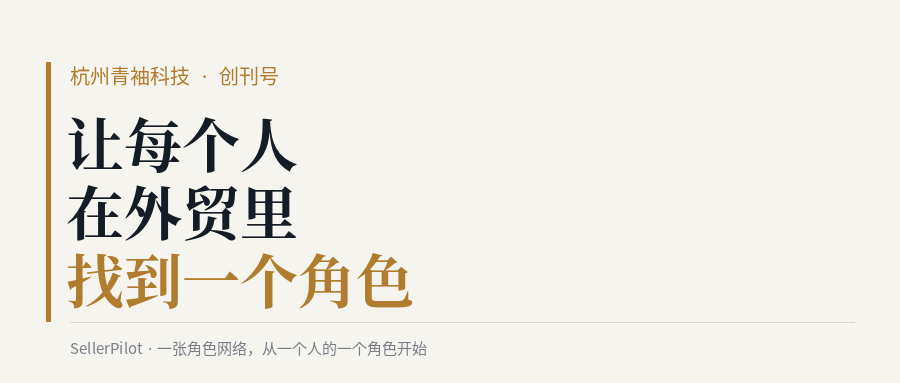
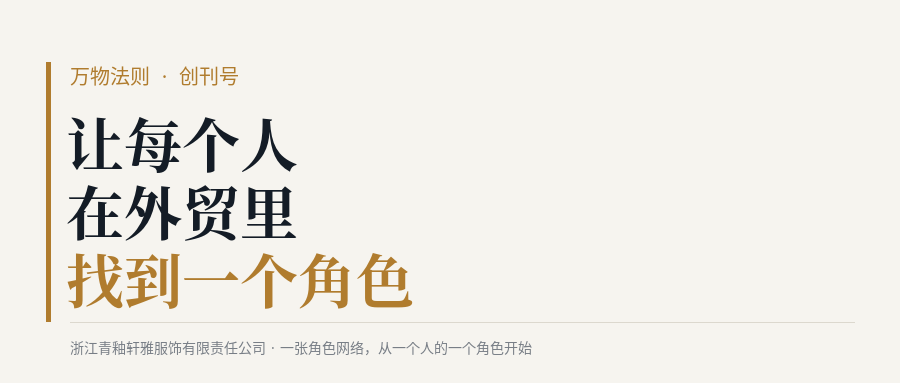
Rebrand to Wanwu Law (万物法则): separate personal site and company, legal entity Qingyou Xuan Ya Apparel; rewrite founding post with market-segmentation & paying-customer methodology

Changed region(s): [[0.0622, 0.8903, 0.5911, 0.9478], [0.0622, 0.1723, 0.3111, 0.2298]]

diff --git a/post/first/index.html b/post/first/index.html
@@ -1,6 +1,6 @@
 <!DOCTYPE html><html lang="zh-CN"><head><meta charset="utf-8">
 <meta name="viewport" content="width=device-width,initial-scale=1">
-<title>我们注册公司了：让每个人都能在外贸里，找到一个角色 · SellerPilot</title>
+<title>万物法则：让每个人都能在外贸里，找到一个角色 · SellerPilot</title>
 <link rel="canonical" href="https://sinyu1998-eng.github.io/post/first/">
 <link rel="stylesheet" href="/assets/site.css">
 <style>
@@ -27,9 +27,9 @@
 </div></nav>
 <div class="post-wrap"><article class="article">
 <img class="cover" src="/post/first/cover.png" alt="封面">
-<div class="meta">杭州青袖科技 · 创刊号 · 2026.11.28</div>
-<div class="h1p">我们注册公司了：让每个人都能在外贸里，找到一个角色</div>
-<blockquote style="margin:20px 0;padding:14px 16px;background:#faf6ee;border-left:3px solid #d9b878;color:#5a5a5a;font-size:15px;line-height:1.9;">这是「杭州青袖科技」的第一篇。不谈融资，不喊口号，只讲清楚我们是谁、要做什么，以及为什么这件事和你有关。</blockquote><p style="margin:16px 0;font-size:16px;line-height:2;color:#333;letter-spacing:.2px;">这周，我们把公司注册下来了。</p><p style="margin:16px 0;font-size:16px;line-height:2;color:#333;letter-spacing:.2px;"><strong style="color:#1a1a1a;">杭州青袖科技有限公司</strong>，2026 年 11 月 24 日成立，注册在杭州余杭。经营范围里写着软件开发、人工智能应用、互联网销售，还有服装服饰、化妆品、日用百货的批发零售——这几行字，其实是我们接下来要做的事的缩影：<strong style="color:#1a1a1a;">用一套系统，把中国货和想买中国货的人，重新连起来。</strong></p><h2 style="font-size:19px;font-weight:700;color:#1a1a1a;margin:34px 0 14px;padding-left:12px;border-left:4px solid #b07c2e;line-height:1.5;">起因：义乌给我的启发</h2><p style="margin:16px 0;font-size:16px;line-height:2;color:#333;letter-spacing:.2px;">我在义乌待过一段时间，见过做收纳用品的工厂老板，货堆在仓库，老客户下单越来越碎，新客户在哪根本摸不着。</p><p style="margin:16px 0;font-size:16px;line-height:2;color:#333;letter-spacing:.2px;">也接触过几百家工厂和贸易公司。跨境出海卡住的地方，翻来覆去就是那几件事：库存是死钱、跟单靠人脑、找不到终端买家。</p><p style="margin:16px 0;font-size:16px;line-height:2;color:#333;letter-spacing:.2px;">但义乌真正厉害的，不是小商品本身，而是<strong style="color:#1a1a1a;">它让每一个人都能在这门生意里承担一个角色、互相联系</strong>。有人做货，有人跑单，有人拉客，有人报关，有人送货——谁都不用一个人干完全部，谁都能凭自己那一段赚到钱。</p><p style="margin:16px 0;font-size:16px;line-height:2;color:#333;letter-spacing:.2px;">这件事，今天还主要靠微信群、人情和运气在维系。我们想把它搬进一个系统。</p><h2 style="font-size:19px;font-weight:700;color:#1a1a1a;margin:34px 0 14px;padding-left:12px;border-left:4px solid #b07c2e;line-height:1.5;">我们要做的事：把这张角色网络，做成软件</h2><p style="margin:16px 0;font-size:16px;line-height:2;color:#333;letter-spacing:.2px;">SellerPilot 不是一个只给公司用的工具。它是一张<strong style="color:#1a1a1a;">角色网络</strong>：</p><ul style="margin:12px 0;padding-left:22px;"><li style="margin:8px 0;line-height:1.9;color:#333;">你是<strong style="color:#1a1a1a;">工厂</strong>，系统把你的货挂到海外买家面前，来询盘先算清 CIF 保本价，再谈报价；</li><li style="margin:8px 0;line-height:1.9;color:#333;">你是<strong style="color:#1a1a1a;">外贸员</strong>，九段状态机替你盯节点，六项成本账本替你记明细，异常才提醒你介入；</li><li style="margin:8px 0;line-height:1.9;color:#333;">你是<strong style="color:#1a1a1a;">海外买家</strong>，在一个官网上看中国货、看中国行，注册一个账号就把你和工厂、货代接成一条工作流；</li><li style="margin:8px 0;line-height:1.9;color:#333;">你是<strong style="color:#1a1a1a;">导游 / 地接</strong>，带老外来中国看市场——旅游是获客，注册是入网，你带来的每个人都是网络里的新角色；</li><li style="margin:8px 0;line-height:1.9;color:#333;">你是<strong style="color:#1a1a1a;">货代、海外仓、主播、验货员、商会、开发者</strong>……这张网里都有你能站的位置。</li></ul><p style="margin:16px 0;font-size:16px;line-height:2;color:#333;letter-spacing:.2px;">我们做了一个页面，把这套角色讲清楚了：<strong style="color:#1a1a1a;">每个人都能在这里找到自己的位置</strong>。你可以按身份筛，点开看每个角色做什么、系统怎么帮你、收益从哪来、怎么加入。</p><blockquote style="margin:20px 0;padding:14px 16px;background:#faf6ee;border-left:3px solid #d9b878;color:#5a5a5a;font-size:15px;line-height:1.9;">一句话：义乌靠人和人的联系把生意做起来，我们想让这套联系，被系统记住、被系统放大。</blockquote><h2 style="font-size:19px;font-weight:700;color:#1a1a1a;margin:34px 0 14px;padding-left:12px;border-left:4px solid #b07c2e;line-height:1.5;">说实话：我们现在还小</h2><p style="margin:16px 0;font-size:16px;line-height:2;color:#333;letter-spacing:.2px;">我们人很少。所以必须讲清楚哪些是真的、哪些还在做：</p><p style="margin:16px 0;font-size:16px;line-height:2;color:#333;letter-spacing:.2px;"><strong style="color:#1a1a1a;">已经能跑的</strong>：SellerPilot OS 的九段外贸状态机、CIF 保本报价、六项成本账本、异常预警——一套可运行的软件，把角色网络里的重复活自动化。代码在 GitHub 上能看到。</p><p style="margin:16px 0;font-size:16px;line-height:2;color:#333;letter-spacing:.2px;"><strong style="color:#1a1a1a;">已有的入口</strong>：对外官网 margueritesbury.com，带老外做 sourcing，也了解来中国旅游。</p><p style="margin:16px 0;font-size:16px;line-height:2;color:#333;letter-spacing:.2px;"><strong style="color:#1a1a1a;">正在整合的</strong>：Singles Way（老外来中国旅游、注册当角色）、AI 视觉识别（参考 DeepLab / YOLO 做看图认货、验货）、直播 / 货代 / 海外仓 / 商会 / 政府关系这些资源方——这些是我们<strong style="color:#1a1a1a;">要整合好的方向</strong>，不是已经上线的承诺。</p><p style="margin:16px 0;font-size:16px;line-height:2;color:#333;letter-spacing:.2px;">我们不打算靠堆人把这件事做起来。靠的是：状态机干重复活，先把钱算清，异常才需要人，资源用接的不用买的。</p><h2 style="font-size:19px;font-weight:700;color:#1a1a1a;margin:34px 0 14px;padding-left:12px;border-left:4px solid #b07c2e;line-height:1.5;">为什么是我们</h2><p style="margin:16px 0;font-size:16px;line-height:2;color:#333;letter-spacing:.2px;">这不是凭空想出来的模式。</p><p style="margin:16px 0;font-size:16px;line-height:2;color:#333;letter-spacing:.2px;">我从国内电商做到跨境电商，带团队管过 90+ 店铺，上一年度自有体系约 1 亿元 GMV；从义乌的田野，到浙江大学的工科训练，再到德州农工、亚利桑那州立大学，一路把一线踩过的坑，做成了这套系统里的每一步。</p><p style="margin:16px 0;font-size:16px;line-height:2;color:#333;letter-spacing:.2px;">系统里的每个节点，都先在真实订单里跑过，才写进代码。</p><h2 style="font-size:19px;font-weight:700;color:#1a1a1a;margin:34px 0 14px;padding-left:12px;border-left:4px solid #b07c2e;line-height:1.5;">从今天起，这张网开始找人</h2><p style="margin:16px 0;font-size:16px;line-height:2;color:#333;letter-spacing:.2px;">如果你——</p><ul style="margin:12px 0;padding-left:22px;"><li style="margin:8px 0;line-height:1.9;color:#333;">有工厂、有货源，想直接接到海外订单；</li><li style="margin:8px 0;line-height:1.9;color:#333;">懂外语、会直播、能带团、做货代、开海外仓；</li><li style="margin:8px 0;line-height:1.9;color:#333;">做支付、做软件、做商会、做园区，想把这些能力接进一张真实的交易网络；</li><li style="margin:8px 0;line-height:1.9;color:#333;">或者只是想来中国看看货、看看市场——</li></ul><p style="margin:16px 0;font-size:16px;line-height:2;color:#333;letter-spacing:.2px;"><strong style="color:#1a1a1a;">你都能在这张网里找到一个角色。</strong></p><p style="margin:16px 0;font-size:16px;line-height:2;color:#333;letter-spacing:.2px;">点开角色页，选一个你能承担的，看看系统怎么帮你。也可以直接把你的角色、城市和资源发给我们，我们帮你定位你在网络里的位置。</p><p style="margin:16px 0;font-size:16px;line-height:2;color:#333;letter-spacing:.2px;">一张网，从一个人的一个角色开始。</p><p style="margin:16px 0;font-size:16px;line-height:2;color:#333;letter-spacing:.2px;">—— 黄倩如 · 杭州青袖科技</p><p style="margin:16px 0;font-size:16px;line-height:2;color:#333;letter-spacing:.2px;">2026 年 11 月 28 日</p>
+<div class="meta">万物法则 · 创刊号 · 2026.11.28</div>
+<div class="h1p">万物法则：让每个人都能在外贸里，找到一个角色</div>
+<blockquote style="margin:20px 0;padding:14px 16px;background:#faf6ee;border-left:3px solid #d9b878;color:#5a5a5a;font-size:15px;line-height:1.9;">这是「万物法则」的第一篇。不谈融资，不喊口号，只讲清楚我们是谁、要做什么，以及为什么这件事和你有关。</blockquote><p style="margin:16px 0;font-size:16px;line-height:2;color:#333;letter-spacing:.2px;">先说清楚两件事，免得你误会。</p><p style="margin:16px 0;font-size:16px;line-height:2;color:#333;letter-spacing:.2px;"><strong style="color:#1a1a1a;">第一，公司叫「万物法则」。</strong> 它的法律主体是浙江青釉轩雅服饰有限责任公司——2025 年 2 月 20 日在义乌成立，注册资本壹仟万元。做服饰批零起家，如今把方向定在一件事上：用一套系统，把中国货和想买中国货的人，重新连起来。</p><p style="margin:16px 0;font-size:16px;line-height:2;color:#333;letter-spacing:.2px;"><strong style="color:#1a1a1a;">第二，公司和个人是两件事，但连着。</strong> 我是黄倩如，你也可以叫我小黄。这个公众号发公司的事；我个人的经历、研究和创作，放在另一个地方。两者会因为同一个人而相互参照，但账要分开算、事要分开讲。这是「万物法则」的第一条规矩：<strong style="color:#1a1a1a;">角色要清楚，边界要清楚。</strong></p><h2 style="font-size:19px;font-weight:700;color:#1a1a1a;margin:34px 0 14px;padding-left:12px;border-left:4px solid #b07c2e;line-height:1.5;">起因：先找市场，再谈产品</h2><p style="margin:16px 0;font-size:16px;line-height:2;color:#333;letter-spacing:.2px;">我最认可的一套创业方法，第一步不是做产品，是<strong style="color:#1a1a1a;">市场细分</strong>——把目标缩小到最有前景的 6~12 个市场，针对每一个去做实地调查，和客户当面聊。</p><p style="margin:16px 0;font-size:16px;line-height:2;color:#333;letter-spacing:.2px;">我在义乌做这件事。见过做收纳用品的工厂老板，货堆在仓库，老客户下单越来越碎，新客户在哪根本摸不着；也接触过几百家工厂和贸易公司，跨境出海卡住的地方翻来覆去就是那几件事：库存是死钱、跟单靠人脑、找不到终端买家。</p><p style="margin:16px 0;font-size:16px;line-height:2;color:#333;letter-spacing:.2px;">但义乌真正厉害的，不是小商品本身，而是<strong style="color:#1a1a1a;">它让每一个人都能在这门生意里承担一个角色、互相联系</strong>。有人做货，有人跑单，有人拉客，有人报关，有人送货——谁都不用一个人干完全部，谁都能凭自己那一段赚到钱。</p><p style="margin:16px 0;font-size:16px;line-height:2;color:#333;letter-spacing:.2px;">这就是我选中的市场：<strong style="color:#1a1a1a;">不是卖货，是把"人—货—客—钱"的连接，做成一张能自动运转的网。</strong></p><h2 style="font-size:19px;font-weight:700;color:#1a1a1a;margin:34px 0 14px;padding-left:12px;border-left:4px solid #b07c2e;line-height:1.5;">唯一重要的检验标准：有没有人愿意付钱</h2><p style="margin:16px 0;font-size:16px;line-height:2;color:#333;letter-spacing:.2px;">创业方法里有一句我抄在本子上的话：</p><blockquote style="margin:20px 0;padding:14px 16px;background:#faf6ee;border-left:3px solid #d9b878;color:#5a5a5a;font-size:15px;line-height:1.9;">企业成功的唯一充分必要条件，是<strong style="color:#1a1a1a;">付费客户</strong>。不是产品、技术、愿景、团队，也不是资金和投资者——那些都重要，但都不是答案。业务直到有人愿意掏钱买，才算真的成立。</blockquote><p style="margin:16px 0;font-size:16px;line-height:2;color:#333;letter-spacing:.2px;">这句话很残酷，也很清醒。它让我们把力气用在刀刃上：</p><ul style="margin:12px 0;padding-left:22px;"><li style="margin:8px 0;line-height:1.9;color:#333;">不做"看起来很美"的功能，先问<strong style="color:#1a1a1a;">谁会为它付钱</strong>；</li><li style="margin:8px 0;line-height:1.9;color:#333;">不堆人、不堆概念，先跑通<strong style="color:#1a1a1a;">一笔真实订单</strong>；</li><li style="margin:8px 0;line-height:1.9;color:#333;">每个人在这张网里的角色，最终都要落到<strong style="color:#1a1a1a;">他能不能分到钱</strong>。</li></ul><p style="margin:16px 0;font-size:16px;line-height:2;color:#333;letter-spacing:.2px;">所以「万物法则」做的不是软件展示品。是一套能让角色各司其职、让订单闭环、让钱算得清的系统。</p><h2 style="font-size:19px;font-weight:700;color:#1a1a1a;margin:34px 0 14px;padding-left:12px;border-left:4px solid #b07c2e;line-height:1.5;">我们做的事：把这张角色网络，做成软件</h2><p style="margin:16px 0;font-size:16px;line-height:2;color:#333;letter-spacing:.2px;">SellerPilot 不是一个只给公司用的工具。它是一张<strong style="color:#1a1a1a;">角色网络</strong>：</p><ul style="margin:12px 0;padding-left:22px;"><li style="margin:8px 0;line-height:1.9;color:#333;">你是<strong style="color:#1a1a1a;">工厂</strong>，系统把你的货挂到海外买家面前，来询盘先算清 CIF 保本价，再谈报价；</li><li style="margin:8px 0;line-height:1.9;color:#333;">你是<strong style="color:#1a1a1a;">外贸员</strong>，九段状态机替你盯节点，六项成本账本替你记明细，异常才提醒你介入；</li><li style="margin:8px 0;line-height:1.9;color:#333;">你是<strong style="color:#1a1a1a;">海外买家</strong>，在一个官网上看中国货、看中国行，注册一个账号就把你和工厂、货代接成一条工作流；</li><li style="margin:8px 0;line-height:1.9;color:#333;">你是<strong style="color:#1a1a1a;">导游 / 地接</strong>，带老外来中国看市场——旅游是获客，注册是入网，你带来的每个人都是网络里的新角色；</li><li style="margin:8px 0;line-height:1.9;color:#333;">你是<strong style="color:#1a1a1a;">货代、海外仓、主播、验货员、商会、开发者</strong>……这张网里都有你能站的位置。</li></ul><p style="margin:16px 0;font-size:16px;line-height:2;color:#333;letter-spacing:.2px;">我们做了一个页面，把这套角色讲清楚了：<strong style="color:#1a1a1a;">每个人都能在这里找到自己的位置</strong>。你可以按身份筛，点开看每个角色做什么、系统怎么帮你、收益从哪来、怎么加入。</p><blockquote style="margin:20px 0;padding:14px 16px;background:#faf6ee;border-left:3px solid #d9b878;color:#5a5a5a;font-size:15px;line-height:1.9;">用客户的角度想问题：工厂要的是不压价、有订单；买家要的是货真、能验、能到；每个角色要的，都是"我这一段，能分到多少"。系统围着这些转，而不是围着我们的想象转。</blockquote><h2 style="font-size:19px;font-weight:700;color:#1a1a1a;margin:34px 0 14px;padding-left:12px;border-left:4px solid #b07c2e;line-height:1.5;">说实话：我们现在还小</h2><p style="margin:16px 0;font-size:16px;line-height:2;color:#333;letter-spacing:.2px;">我们人很少。所以必须讲清楚哪些是真的、哪些还在做：</p><p style="margin:16px 0;font-size:16px;line-height:2;color:#333;letter-spacing:.2px;"><strong style="color:#1a1a1a;">已经能跑的</strong>：SellerPilot OS 的九段外贸状态机、CIF 保本报价、六项成本账本、异常预警——一套可运行的软件，把角色网络里的重复活自动化。代码在 GitHub 上能看到。</p><p style="margin:16px 0;font-size:16px;line-height:2;color:#333;letter-spacing:.2px;"><strong style="color:#1a1a1a;">已有的入口</strong>：对外官网 margueritesbury.com，带老外做 sourcing，也了解来中国旅游。</p><p style="margin:16px 0;font-size:16px;line-height:2;color:#333;letter-spacing:.2px;"><strong style="color:#1a1a1a;">正在整合的</strong>：Singles Way（老外来中国旅游、注册当角色）、AI 视觉识别（参考 DeepLab / YOLO 做看图认货、验货）、直播 / 货代 / 海外仓 / 商会 / 政府关系这些资源方——这些是我们<strong style="color:#1a1a1a;">要整合好的方向</strong>，不是已经上线的承诺。</p><p style="margin:16px 0;font-size:16px;line-height:2;color:#333;letter-spacing:.2px;">我们不打算靠堆人把这件事做起来。靠的是：状态机干重复活，先把钱算清，异常才需要人，资源用接的不用买的。</p><h2 style="font-size:19px;font-weight:700;color:#1a1a1a;margin:34px 0 14px;padding-left:12px;border-left:4px solid #b07c2e;line-height:1.5;">从今天起，这张网开始找人</h2><p style="margin:16px 0;font-size:16px;line-height:2;color:#333;letter-spacing:.2px;">如果你——</p><ul style="margin:12px 0;padding-left:22px;"><li style="margin:8px 0;line-height:1.9;color:#333;">有工厂、有货源，想直接接到海外订单；</li><li style="margin:8px 0;line-height:1.9;color:#333;">懂外语、会直播、能带团、做货代、开海外仓；</li><li style="margin:8px 0;line-height:1.9;color:#333;">做支付、做软件、做商会、做园区，想把这些能力接进一张真实的交易网络；</li><li style="margin:8px 0;line-height:1.9;color:#333;">或者只是想来中国看看货、看看市场——</li></ul><p style="margin:16px 0;font-size:16px;line-height:2;color:#333;letter-spacing:.2px;"><strong style="color:#1a1a1a;">你都能在这张网里找到一个角色。</strong></p><p style="margin:16px 0;font-size:16px;line-height:2;color:#333;letter-spacing:.2px;">点开角色页，选一个你能承担的，看看系统怎么帮你。也可以直接把你的角色、城市和资源发给我们，我们帮你定位你在网络里的位置。</p><p style="margin:16px 0;font-size:16px;line-height:2;color:#333;letter-spacing:.2px;">一张网，从一个人的一个角色开始。</p><p style="margin:16px 0;font-size:16px;line-height:2;color:#333;letter-spacing:.2px;">—— 万物法则 · 黄倩如</p><p style="margin:16px 0;font-size:16px;line-height:2;color:#333;letter-spacing:.2px;">2026 年 11 月 28 日</p>
 <a class="back" href="/">← 返回 SellerPilot 首页</a>
 </article></div>
 <script>(function(){var n=document.getElementById('nav');function s(){n.classList.toggle('scrolled',scrollY>10)}addEventListener('scroll',s,{passive:true});s();})();</script>

diff --git a/qianruhuang/index.html b/qianruhuang/index.html
@@ -23,7 +23,7 @@
       <a href="profile.html" data-zh="档案" data-en="Profile">档案</a>
       <a href="creative.html" data-zh="创作" data-en="Creative">创作</a>
       <a href="connect.html" data-zh="联系" data-en="Contact">联系</a>
-      <a href="/sellerpilot/" data-zh="创业 ↗" data-en="Ventures ↗">创业 ↗</a>
+      <a href="/" data-zh="公司 ↗" data-en="Company ↗">公司 ↗</a>
       <div class="lang"><button class="on" data-l="zh">中文</button><button data-l="en">EN</button></div>
     </div>
   </div>
@@ -107,13 +107,13 @@
 
 <section class="sec">
   <div class="wrap">
-    <div class="kicker" data-zh="04 — 创业（与上面分开）" data-en="04 — VENTURES (SEPARATE)">04 — 创业（与上面分开）</div>
-    <h2 data-zh="创业是另一件事，不混在这一页" data-en="Ventures are a separate thing">创业是另一件事，不混在这一页</h2>
+    <div class="kicker" data-zh="04 — 公司（与个人分开）" data-en="04 — COMPANY (SEPARATE)">04 — 公司（与个人分开）</div>
+    <h2 data-zh="公司是另一件事，不混在这一页" data-en="The company is a separate thing">公司是另一件事，不混在这一页</h2>
     <div class="vbox">
       <div>
-        <p data-zh="我做的事情里，有一部分是关于创业的——SellerPilot，一套给工厂用的 AI 出海生意助手。它是工作，不是「我」，所以单独放在另一个站点。" data-en="Part of what I do is about starting a company — SellerPilot, an AI overseas-growth assistant for factories. That's work, not “me,” so it lives on its own site.">我做的事情里，有一部分是关于创业的——SellerPilot，一套给工厂用的 AI 出海生意助手。它是工作，不是「我」，所以单独放在另一个站点。</p>
+        <p data-zh="我创办了一家公司，叫万物法则（法律主体：浙江青釉轩雅服饰有限责任公司）。它做的 SellerPilot，是一套把外贸做成角色网络的自动化系统。它是工作，不是「我」——所以公司的事放在公司那边，这里只讲我这个人。两者因为同一个人而相连。" data-en="I founded a company called Wanwu Law (万物法则), whose legal entity is Zhejiang Qingyou Xuan Ya Apparel Co., Ltd. Its product, SellerPilot, automates a role network for foreign trade. It's work, not “me” — so the company lives on its own site, and this one is just about me. The two connect through the same person.">我创办了一家公司，叫万物法则（法律主体：浙江青釉轩雅服饰有限责任公司）。它做的 SellerPilot，是一套把外贸做成角色网络的自动化系统。它是工作，不是「我」——所以公司的事放在公司那边，这里只讲我这个人。两者因为同一个人而相连。</p>
       </div>
-      <a class="vbtn" href="/sellerpilot/" data-zh="前往 SellerPilot ↗" data-en="Go to SellerPilot ↗">前往 SellerPilot ↗</a>
+      <a class="vbtn" href="/" data-zh="前往万物法则公司站 ↗" data-en="Go to Wanwu Law company site ↗">前往万物法则公司站 ↗</a>
     </div>
   </div>
 </section>

diff --git a/qianruhuang/en/index.html b/qianruhuang/en/index.html
@@ -23,7 +23,7 @@
       <a href="profile.html" data-zh="档案" data-en="Profile">档案</a>
       <a href="creative.html" data-zh="创作" data-en="Creative">创作</a>
       <a href="connect.html" data-zh="联系" data-en="Contact">联系</a>
-      <a href="/sellerpilot/" data-zh="创业 ↗" data-en="Ventures ↗">创业 ↗</a>
+      <a href="/" data-zh="公司 ↗" data-en="Company ↗">公司 ↗</a>
       <div class="lang"><button class="on" data-l="zh">中文</button><button data-l="en">EN</button></div>
     </div>
   </div>
@@ -107,13 +107,13 @@
 
 <section class="sec">
   <div class="wrap">
-    <div class="kicker" data-zh="04 — 创业（与上面分开）" data-en="04 — VENTURES (SEPARATE)">04 — 创业（与上面分开）</div>
-    <h2 data-zh="创业是另一件事，不混在这一页" data-en="Ventures are a separate thing">创业是另一件事，不混在这一页</h2>
+    <div class="kicker" data-zh="04 — 公司（与个人分开）" data-en="04 — COMPANY (SEPARATE)">04 — 公司（与个人分开）</div>
+    <h2 data-zh="公司是另一件事，不混在这一页" data-en="The company is a separate thing">公司是另一件事，不混在这一页</h2>
     <div class="vbox">
       <div>
         <p data-zh="我做的事情里，有一部分是关于创业的——SellerPilot，一套给工厂用的 AI 出海生意助手。它是工作，不是「我」，所以单独放在另一个站点。" data-en="Part of what I do is about starting a company — SellerPilot, an AI overseas-growth assistant for factories. That's work, not “me,” so it lives on its own site.">我做的事情里，有一部分是关于创业的——SellerPilot，一套给工厂用的 AI 出海生意助手。它是工作，不是「我」，所以单独放在另一个站点。</p>
       </div>
-      <a class="vbtn" href="/sellerpilot/" data-zh="前往 SellerPilot ↗" data-en="Go to SellerPilot ↗">前往 SellerPilot ↗</a>
+      <a class="vbtn" href="/" data-zh="前往万物法则公司站 ↗" data-en="Go to Wanwu Law company site ↗">前往万物法则公司站 ↗</a>
     </div>
   </div>
 </section>

diff --git a/roles/en/index.html b/roles/en/index.html
@@ -44,7 +44,7 @@
 <body data-lang="en">
 
 <nav id="nav">
-  <a class="logo" href="/">Seller<i>Pilot</i></a>
+  <a class="logo" href="/">万物法则 <small style="font-family:var(--mono);font-size:10px;color:var(--gold);margin-left:6px">WANWU LAW</small></a>
   <div class="nav-r">
     <a href="/sellerpilot/" data-zh="产品" data-en="Product">产品</a>
     <a href="/os/" data-zh="软件" data-en="Software">软件</a>
@@ -85,7 +85,7 @@
 
 <footer style="border-top:1px solid var(--line);padding:36px 0;text-align:center;color:var(--faint);font-size:12px">
   <div class="wrap">
-    <span data-zh="SellerPilot · 让每个人在外贸里承担一个角色" data-en="SellerPilot · Everyone takes a role in foreign trade">SellerPilot · 让每个人在外贸里承担一个角色</span> ·
+    <span data-zh="万物法则 · SellerPilot · 让每个人在外贸里承担一个角色" data-en="Wanwu Law · SellerPilot · Everyone takes a role in foreign trade">万物法则 · SellerPilot · 让每个人在外贸里承担一个角色</span> ·
     <a href="/" style="border-bottom:1px solid var(--faint)" data-zh="返回首页" data-en="Back home">返回首页</a>
   </div>
 </footer>

diff --git a/roles/index.html b/roles/index.html
@@ -44,7 +44,7 @@
 <body data-lang="zh">
 
 <nav id="nav">
-  <a class="logo" href="/">Seller<i>Pilot</i></a>
+  <a class="logo" href="/">万物法则 <small style="font-family:var(--mono);font-size:10px;color:var(--gold);margin-left:6px">WANWU LAW</small></a>
   <div class="nav-r">
     <a href="/sellerpilot/" data-zh="产品" data-en="Product">产品</a>
     <a href="/os/" data-zh="软件" data-en="Software">软件</a>
@@ -85,7 +85,7 @@
 
 <footer style="border-top:1px solid var(--line);padding:36px 0;text-align:center;color:var(--faint);font-size:12px">
   <div class="wrap">
-    <span data-zh="SellerPilot · 让每个人在外贸里承担一个角色" data-en="SellerPilot · Everyone takes a role in foreign trade">SellerPilot · 让每个人在外贸里承担一个角色</span> ·
+    <span data-zh="万物法则 · SellerPilot · 让每个人在外贸里承担一个角色" data-en="Wanwu Law · SellerPilot · Everyone takes a role in foreign trade">万物法则 · SellerPilot · 让每个人在外贸里承担一个角色</span> ·
     <a href="/" style="border-bottom:1px solid var(--faint)" data-zh="返回首页" data-en="Back home">返回首页</a>
   </div>
 </footer>

diff --git a/en/index.html b/en/index.html
@@ -43,7 +43,7 @@
 <body data-lang="en">
 
 <nav id="nav">
-  <a class="logo" href="/">Seller<i>Pilot</i></a>
+  <a class="logo" href="/">万物法则 <small style="font-family:var(--mono);font-size:10px;color:var(--gold);margin-left:6px">WANWU LAW</small></a>
   <div class="nav-r">
     <a href="/sellerpilot/" data-zh="产品" data-en="Product">产品</a>
     <a href="/os/" data-zh="软件" data-en="Software">软件</a>
@@ -151,7 +151,7 @@
       <a class="btn ghost" href="/qianruhuang/connect.html" data-zh="联系我" data-en="Get in touch">联系我</a>
       <a class="btn ghost" href="mailto:sinyu1998@gmail.com">sinyu1998@gmail.com</a>
     </div>
-    <p style="margin-top:40px;font-family:var(--mono);font-size:11px;color:var(--faint)">© 2026 SellerPilot · Qianru (Carol) Huang</p>
+    <p style="margin-top:40px;font-family:var(--mono);font-size:11px;color:var(--faint)">© 2026 万物法则 · 浙江青釉轩雅服饰有限责任公司 · SellerPilot OS · 创始人 黄倩如</p>
   </div>
 </footer>
 

diff --git a/index.html b/index.html
@@ -43,7 +43,7 @@
 <body data-lang="zh">
 
 <nav id="nav">
-  <a class="logo" href="/">Seller<i>Pilot</i></a>
+  <a class="logo" href="/">万物法则 <small style="font-family:var(--mono);font-size:10px;color:var(--gold);margin-left:6px">WANWU LAW</small></a>
   <div class="nav-r">
     <a href="/sellerpilot/" data-zh="产品" data-en="Product">产品</a>
     <a href="/os/" data-zh="软件" data-en="Software">软件</a>
@@ -151,7 +151,7 @@
       <a class="btn ghost" href="/qianruhuang/connect.html" data-zh="联系我" data-en="Get in touch">联系我</a>
       <a class="btn ghost" href="mailto:sinyu1998@gmail.com">sinyu1998@gmail.com</a>
     </div>
-    <p style="margin-top:40px;font-family:var(--mono);font-size:11px;color:var(--faint)">© 2026 SellerPilot · Qianru (Carol) Huang</p>
+    <p style="margin-top:40px;font-family:var(--mono);font-size:11px;color:var(--faint)">© 2026 万物法则 · 浙江青釉轩雅服饰有限责任公司 · SellerPilot OS · 创始人 黄倩如</p>
   </div>
 </footer>
 

diff --git a/assets/site.js b/assets/site.js
@@ -3,7 +3,7 @@
  var start=(body.getAttribute('data-lang')||'zh')==='en';
  function apply(en){
   doc.documentElement.lang=en?'en':'zh-CN';
-  doc.title=en?'SellerPilot — Everyone takes a role in foreign trade':'SellerPilot — 让每个人在外贸里承担一个角色';
+  doc.title=en?'Wanwu Law — Everyone takes a role in foreign trade':'万物法则 — 让每个人在外贸里承担一个角色';
   doc.querySelectorAll('[data-zh]').forEach(function(el){var t=el.getAttribute(en?'data-en':'data-zh');if(t!==null)el.innerHTML=t;});
   doc.querySelectorAll('.lang button').forEach(function(b){b.classList.toggle('on',(b.getAttribute('data-l')==='en')===en);});
  }

diff --git a/qianruhuang/en/papers.html b/qianruhuang/en/papers.html
@@ -40,7 +40,7 @@
       <a class="on" href="papers.html" data-zh="论文" data-en="Papers">论文</a>
       <a href="creative.html" data-zh="创作" data-en="Creative">创作</a>
       <a href="connect.html" data-zh="联系" data-en="Contact">联系</a>
-      <a href="/sellerpilot/" data-zh="创业 ↗" data-en="Ventures ↗">创业 ↗</a>
+      <a href="/" data-zh="公司 ↗" data-en="Company ↗">公司 ↗</a>
       <div class="lang"><button class="on" data-l="zh">中文</button><button data-l="en">EN</button></div>
     </div>
   </div>

diff --git a/qianruhuang/papers.html b/qianruhuang/papers.html
@@ -40,7 +40,7 @@
       <a class="on" href="papers.html" data-zh="论文" data-en="Papers">论文</a>
       <a href="creative.html" data-zh="创作" data-en="Creative">创作</a>
       <a href="connect.html" data-zh="联系" data-en="Contact">联系</a>
-      <a href="/sellerpilot/" data-zh="创业 ↗" data-en="Ventures ↗">创业 ↗</a>
+      <a href="/" data-zh="公司 ↗" data-en="Company ↗">公司 ↗</a>
       <div class="lang"><button class="on" data-l="zh">中文</button><button data-l="en">EN</button></div>
     </div>
   </div>

diff --git a/qianruhuang/connect.html b/qianruhuang/connect.html
@@ -18,7 +18,7 @@
       <a href="profile.html" data-zh="档案" data-en="Profile">档案</a>
     <a href="creative.html" data-zh="创作" data-en="Creative">创作</a>
     <a class="on" href="connect.html" data-zh="联系" data-en="Contact">联系</a>
-    <a href="/sellerpilot/" data-zh="创业 ↗" data-en="Ventures ↗">创业 ↗</a>
+    <a href="/" data-zh="公司 ↗" data-en="Company ↗">公司 ↗</a>
     <div class="lang"><button class="on" data-l="zh">中文</button><button data-l="en">EN</button></div>
   </div>
 </div></nav>

diff --git a/qianruhuang/en/connect.html b/qianruhuang/en/connect.html
@@ -18,7 +18,7 @@
       <a href="profile.html" data-zh="档案" data-en="Profile">档案</a>
     <a href="creative.html" data-zh="创作" data-en="Creative">创作</a>
     <a class="on" href="connect.html" data-zh="联系" data-en="Contact">联系</a>
-    <a href="/sellerpilot/" data-zh="创业 ↗" data-en="Ventures ↗">创业 ↗</a>
+    <a href="/" data-zh="公司 ↗" data-en="Company ↗">公司 ↗</a>
     <div class="lang"><button class="on" data-l="zh">中文</button><button data-l="en">EN</button></div>
   </div>
 </div></nav>
